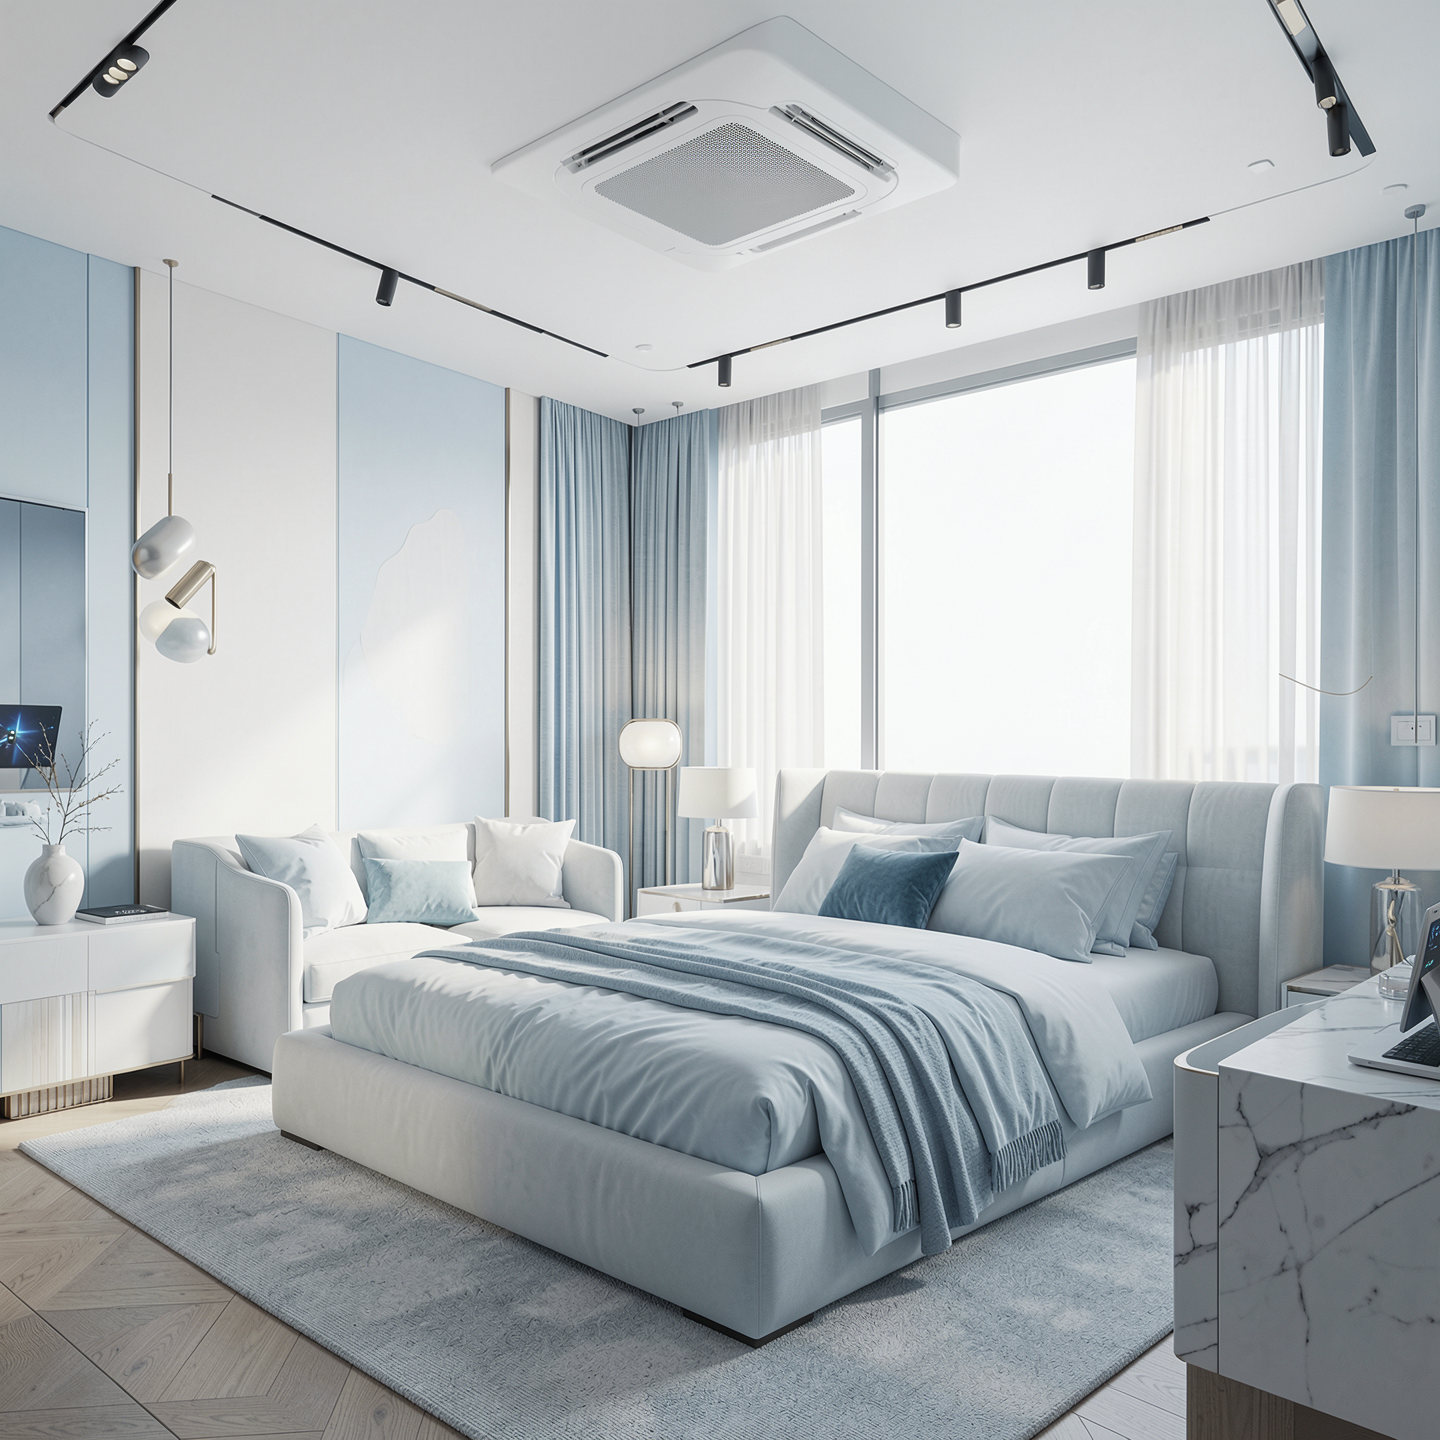
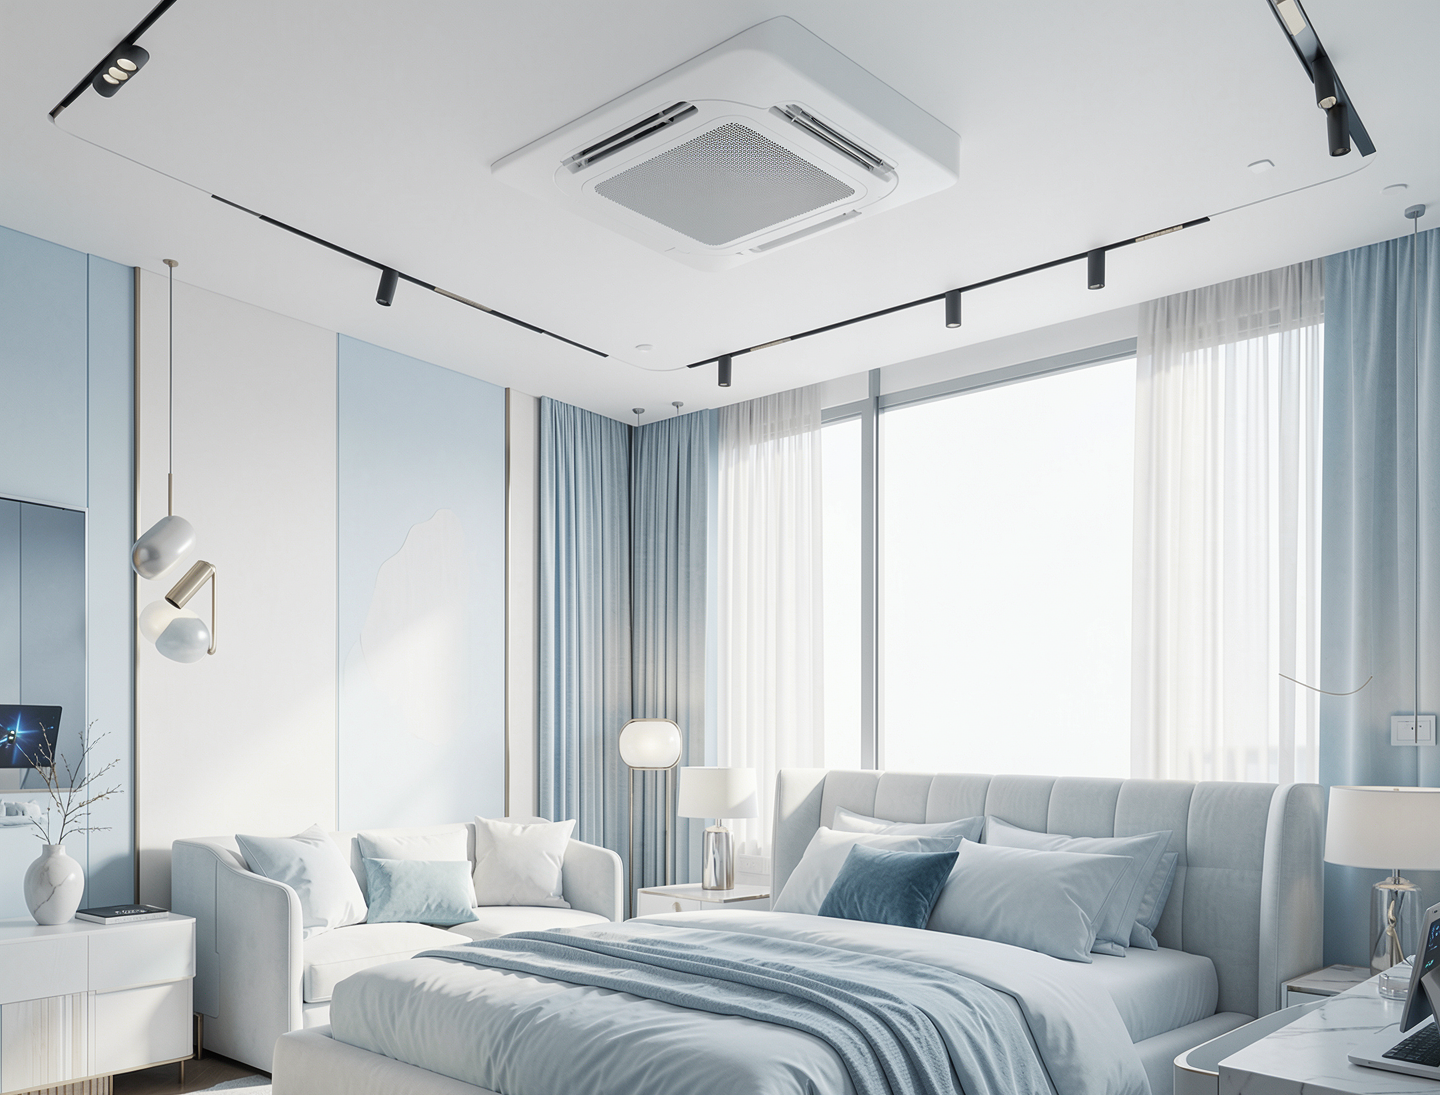
fix: update cropped VRF image, shrink differences diagram to 65% width

diff --git a/frontend/src/index.css b/frontend/src/index.css
@@ -2249,6 +2249,8 @@ body {
   overflow: hidden;
   border: 1px solid #ece8e2;
   cursor: zoom-in;
+  max-width: 65%;
+  margin: 0 auto;
 }
 .vrf-info-img img {
   width: 100%;